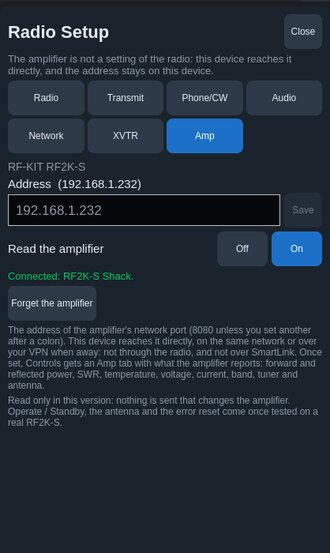
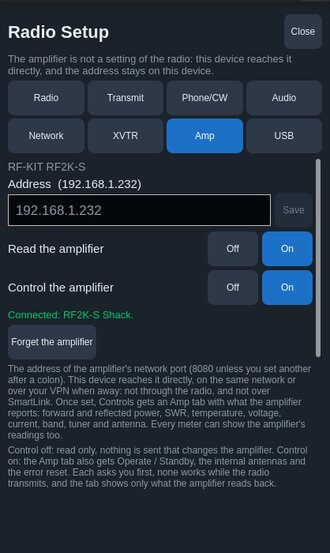
mobile: build 149 / Android beta 62 notes, roadmap, manual, README, privacy and screenshots: amplifier control and keying settings
The manual: Controls › Amp's control rows, the confirmations and what a
refusal or a lost answer says, Forward's peak marker and the faster poll;
the meters' Amplifier readings; Radio Setup › Transmit's keying outputs,
TX REQ inputs, PTT mic override, Inhibit during TUNE and TX band settings;
Radio Setup › USB (each cable type); Control the amplifier; three
troubleshooting rows. New pictures amp-controls, amp-confirm, meter-amp,
setup-txband, setup-usb; tab-amp, setup-amp and setup (8 tabs, 4 + 4)
again. update-manual-screenshots.sh takes them against the stand-in RF2K-S
(Control on as the user turns it on, the confirmation cancelled, the
meters' choices put back, the USB tab only shown): 0 writes.

README: the amplifier's control and meters, keying from Radio Setup, two
status rows. PRIVACY.md: with control on, the changes confirmed are sent
to the amplifier. The roadmap: build 149 (and what was found: the radio
shows the keying of the station holding Local PTT; usb_cable set answers
without a status; the stand-in tap that reached a real cable, set back),
step 2 of the amplifier plan. TestFlight notes (3970 characters) and
Android beta 62.

Layout sweep against build 148's: 27 sizes, no layout decision changed,
no QML warnings; build 149's is the new baseline.

Claude-Session: https://claude.ai/code/session_01KANojkzU64KoozGDbNDzRK

Changed region(s): [[0.0, 0.2152, 1.0, 0.8915]]

diff --git a/docs/mobile/MANUAL.md b/docs/mobile/MANUAL.md
@@ -667,9 +667,20 @@ An analog meter keeps its size, as a wider face would also grow taller.
 
 ![Meter chooser](manual/meter.jpg)
 
+![The amplifier's readings on the meters while transmitting](manual/meter-amp.jpg)
+
 Receive offers S, Mic, PA temperature and supply voltage; transmit adds
 Power, SWR, ALC and Compression, which the radio reads only while
-transmitting, and leaves S out (it has nothing to read on the air). **Mic** is on the left meter and its lower bar
+transmitting, and leaves S out (it has nothing to read on the air).
+With an amplifier set up ([Radio Setup › Amp](#9-radio-setup)), every
+meter, in receive and in transmit, also offers its readings under
+**Amplifier**: *Power* (0-1600 W), *Refl* (0-200 W, red from 2:1 at the
+present power), *SWR* (red from 2:1, – below 1 W), *Temp* (0-100 °C, red
+from 70: the RF2K-S goes to standby at 72 °C), *Volts* (40-60 V) and
+*Current* (0-60 A). The meter names them *Amp Power*, *Amp Temp*… where
+there is room and *Amp* where not (the value's unit and the scale tell
+which). Forget the amplifier, and a meter showing one of them goes back
+to its usual reading. **Mic** is on the left meter and its lower bar
 (on a tablet the side panel covers the right one). With this device's microphone it shows the
 level of the audio as it is sent (after the processing in Controls → eSSB):
 while you transmit, and in receive too while Controls → TX or eSSB is open,
@@ -1417,29 +1428,62 @@ of seven.
   The text also runs along the top of the waterfall, where a tap opens the
   receive settings over the display.
 
-- **Amp** — an RF-KIT **RF2K-S** amplifier, read over its own network
+- **Amp** — an RF-KIT **RF2K-S** amplifier, over its own network
   interface (its REST API), once its address is set in
-  [Radio Setup › Amp](#9-radio-setup). **Read only in this version**: the
-  tab shows what the amplifier reports and sends nothing that changes it.
+  [Radio Setup › Amp](#9-radio-setup). The tab shows what the amplifier
+  reports; with **Control the amplifier** on (Radio Setup › Amp, off until
+  you turn it on) it also switches Operate / Standby and the antenna and
+  resets an error, each after asking you.
 
   ![Amp tab](manual/tab-amp.jpg)
 
   At the top the amplifier's name and its state, **OPERATE** (red) or
-  **STANDBY**, as the amplifier reports it (shown, not a button), and the
-  link: *Read from 192.168.1.60:8080, every half second*, *Connecting…*,
-  or *not reached* with the reason (the app keeps trying every 5 s). Then
-  **Forward** (0-1600 W) and **Reflected** (0-200 W) power and **SWR**
-  (red from 2:1; held at – in receive), on the amplifier's own scales; the
-  PA's **Temperature**, **Voltage** and **Current**; the **Band** and
-  **Frequency** the amplifier is on; the active **Antenna** (1-4, EXT for
-  the external one); the **Tuner** (mode and network); the **Interface**
-  the amplifier follows the radio with (UNIV, CAT, UDP or TCI); its
-  **Status** text and **Firmware**. An error the amplifier reports shows in
-  red under them. A reading not received yet shows as –, never 0.
+  **STANDBY**, as the amplifier reports it, and the link: *Read from
+  192.168.1.60:8080, every half second*, *Connecting…*, or *not reached*
+  with the reason (the app keeps trying every 5 s). Then **Forward**
+  (0-1600 W) and **Reflected** (0-200 W) power and **SWR** (red from 2:1;
+  held at – in receive), on the amplifier's own scales. Forward has an
+  amber peak marker: the highest reading of the last 3 seconds, falling
+  back slowly, as on the desktop's amplifier panel, so the peaks of speech
+  or CW show between readings. Then the PA's **Temperature**, **Voltage**
+  and **Current**; the **Band** and **Frequency** the amplifier is on; the
+  active **Antenna** (1-4, EXT for the external one); the **Tuner** (mode
+  and network); the **Interface** the amplifier follows the radio with
+  (UNIV, CAT, UDP or TCI); its **Status** text and **Firmware**. An error
+  the amplifier reports shows in red under them. A reading not received
+  yet shows as –, never 0.
 
   The amplifier is read while the app is on screen and connected to a
-  radio, and stops in the background. Operate / Standby, the antenna and
-  the error reset will come once tested on a real RF2K-S.
+  radio: twice a second in receive, four times a second while the radio
+  transmits, so the power follows the keying. It stops in the background.
+
+  **Control** (with Control the amplifier on), under the readings:
+  - **Mode** — *Standby* and *Operate*, the amplifier's present mode dark;
+    tap the other one to switch.
+  - **Antenna** — the internal antennas *1*-*4*, the active one dark; one
+    the amplifier has not set up is dim. *EXT* lights while the
+    amplifier's external antenna is in use: shown, not switched from the
+    app.
+  - *Reset error* — clears the amplifier's error state (it latches to
+    protect the amplifier); deal with the cause first.
+
+  ![The Amp tab's controls](manual/amp-controls.jpg)
+
+  Each asks first, naming the change (*Put the amplifier in OPERATE?*,
+  *Switch the amplifier to antenna 2?*, *Reset the amplifier's error?*),
+  and goes only with the button that names it; *Cancel* or a tap beside
+  the question sends nothing. Before Operate, check that the radio's power
+  suits the amplifier. None of them works while the radio transmits
+  (*Not while transmitting.*: the amplifier's relays must not switch with
+  RF on them), and a question still open closes by itself when the radio
+  keys, the link drops or Control is turned off. One change at a time:
+  *Asking the amplifier…* until it answers. The tab changes only when the
+  amplifier reads the new state back. If it refuses, its reason shows in
+  red (*The amplifier did not take it: Function currently disabled (HTTP
+  409)*); if no answer comes, *No answer from the amplifier: it may or may
+  not have done it*, and the tab shows its state again once it is read.
+
+  ![Asking before a change](manual/amp-confirm.jpg)
 
 ## 9. Radio Setup
 
@@ -1456,7 +1500,33 @@ radio.
   multiFLEX; *Disconnect* ends another station's session after asking, which
   frees its slices), and the model, serial, firmware, region and address.
 - **Transmit** — maximum power, TX delay, transmit timeout (0 = off) and the
-  TUNE signal (single or two tone).
+  TUNE signal (single or two tone). Then what an amplifier, a sequencer or
+  a preamp needs, as in SmartSDR's Radio Setup (so no other program is
+  needed), kept in the radio's TX profile (its name is shown):
+  - **Keying outputs: delay after PTT** — *RCA TX1*, *RCA TX2*, *RCA TX3*
+    and *ACC TX* (the accessory connector's TX): how long after PTT each
+    output closes, in ms. The radio's signal waits for **TX delay**, so set
+    the amplifier's output early enough for its relays (about 20 ms): for
+    example TX1 20 ms and TX delay 30 ms.
+  - **TX REQ inputs** — *RCA TX REQ* and *ACC TX REQ*: a footswitch or
+    sequencer there keys the radio on the bands where the input is on.
+    *Active low* (a contact to ground transmits) is the usual; *Active high*
+    asks first, as an open input then keys the radio. **PTT mic override**
+    (a radio with SmartSDR 4.3 or later): on, a hardware PTT (the RCA PTT,
+    ACC or the mic jack) sends the analog mic whatever the TX source.
+  - **Inhibit during TUNE (this device)** — *RCA TX1*, *TX2*, *TX3*, *ACC
+    TX*: the outputs held open while TUNE or the ATU transmits, so tuning
+    at low power does not key the amplifier; they close again after. This
+    device's setting (as the desktop's), not the radio's.
+  - **TX band settings** — pick a band (the one the radio is on is
+    picked first), then for that band: **RF power** and **Tune power** (%),
+    which outputs close there (**RCA TX1 / TX2 / TX3**, **ACC TX**: e.g.
+    the amplifier's PTT only on the bands it covers), the **TX REQ inputs**
+    that work there, **PTT inhibit** (no transmitting on that band) and
+    **Hardware ALC** (the amplifier's ALC at the ALC jack). Turning a TX
+    REQ input on while it is set active high asks first.
+
+  ![Radio Setup › Transmit: the TX band settings](manual/setup-txband.jpg)
 - **Phone/CW** — microphone bias and boost (the radio's own microphone
   inputs; this device's microphone gain is the TX tab's Mic level); the CW
   keyer's break-in delay,
@@ -1474,15 +1544,45 @@ radio.
   radio allows) and *Receive only*; *Remove* deletes it. The radio says when
   a transverter is valid.
 - **Amp** — not a setting of the radio: the amplifier this device reads
-  for the [Amp tab](#8-controls), kept on this device. **RF-KIT RF2K-S**:
-  its **Address** (the IP address or host name of the amplifier's network
-  port, `:port` after it when not 8080) with *Save*; **Read the amplifier**
-  on or off; the link's state; *Forget the amplifier* removes it and the
-  Amp tab. This device reaches the amplifier directly: on the same network,
-  or over your VPN when away — not through the radio, and not over
-  SmartLink. Read only in this version.
+  for the [Amp tab](#8-controls) and the meters, kept on this device.
+  **RF-KIT RF2K-S**: its **Address** (the IP address or host name of the
+  amplifier's network port, `:port` after it when not 8080) with *Save*;
+  **Read the amplifier** on or off; **Control the amplifier** on or off
+  (off until you turn it on: then nothing that changes the amplifier is
+  ever sent; on: the Amp tab's Mode, Antenna and Reset error, each asking
+  first); the link's state; *Forget the amplifier* removes it, the Amp tab
+  and Control (a new address starts read only). This device reaches the
+  amplifier directly: on the same network, or over your VPN when away —
+  not through the radio, and not over SmartLink.
 
   ![Radio Setup › Amp](manual/setup-amp.jpg)
+- **USB** — USB-serial (FTDI) cables in the radio's USB ports, as
+  SmartSDR's *USB Cables*: they give an amplifier, a tuner or an antenna
+  switch the frequency or the band without a computer. A cable shows once
+  plugged into the radio (one it remembers but is unplugged says so;
+  *Forget this cable* drops its settings after asking). For each: its
+  **Name**, **Enabled**, and its **Type**:
+  - **CAT** — the frequency as CAT text (e.g. to an ACOM or SPE amplifier):
+    **Frequency from** (none, the TX pan, the TX slice, the active slice,
+    a transmit or receive antenna, or a slice by letter), **auto report**
+    (sent as it changes, not only when asked), and the serial port:
+    speed, data bits, parity, stop bits, flow control, as the amplifier
+    wants them.
+  - **BCD** — the band as BCD lines (HF, VHF or both), active high or low,
+    for an amplifier's or antenna switch's band input.
+  - **Bit** — eight lines (*Bit 0-7*), each on for a band or a frequency
+    range, active high or low, from a source as above, and if wanted only
+    while transmitting, with a PTT delay and a TX delay (ms): e.g. an
+    antenna relay per band.
+  - **LDPA** — a FlexRadio 2 m / 4 m LDPA amplifier: its band and preamp.
+  - **Pass** (passthrough) — a serial port through the radio, with its
+    port settings.
+
+  The radio keeps these settings; it answers each change with an OK
+  rather than a status, so the page shows a change once the radio has
+  taken it.
+
+  ![Radio Setup › USB](manual/setup-usb.jpg)
 
 **A new radio.** When the app connects to a radio that has no callsign yet —
 a new or reset radio — it offers *Set up* once, a few seconds after
@@ -1516,6 +1616,9 @@ Notices and refusals pop up in the middle of the display; tap one, or wait
 | *The 3D view was too slow …* / *The app stopped while the 3D view was on …* | The app went back to the 2D waterfall | View → 3D to try again |
 | Amp: *not reached: Connection refused* or *timed out* | Nothing answers at the amplifier's address and port from this device | Check the address (Radio Setup › Amp) and the port (8080 unless changed on the amplifier); away from home the VPN must be up; on an iPhone, iPad or Mac allow Local Network for OksaSDR |
 | Amp: *Not an RF-KIT amplifier* | Something else answered at that address (a router, another web page) | Check the amplifier's address and port |
+| Amp: *The amplifier did not take it: … (HTTP 409)* | The amplifier refused the change: the function is disabled on it, or it does not allow an antenna change now | Check the amplifier's own display and settings; the tab keeps showing its real state |
+| Amp: *No answer from the amplifier* or *The link was lost before the amplifier answered* | The link dropped while the change was on its way | Look at the amplifier's display: it may or may not have done it; the tab shows its state again once it is read |
+| Amp: Mode, Antenna and Reset error are dim | The radio is transmitting, a change waits for its answer, or the link is down; with no Mode or Antenna rows at all, Control is off | Wait for receive or the answer; check the link line at the top; Radio Setup › Amp › Control the amplifier |
 
 ## 11. Keyboard and Apple Pencil
 

diff --git a/mobile/ROADMAP.md b/mobile/ROADMAP.md
@@ -5,6 +5,8 @@ queued, waiting on someone, or still to verify follows.
 
 ## Next build
 
+Build 149 / beta 62 (the user, 2026-11-03, after Sebastian Schu DG5CST's test of build 148 on his RF2K-S: "The readings are all fine!"; all three of his and the user's points, to every tester in the same build): step 2 of the amplifier plan (below), Operate / Standby, the internal antenna and the error reset from the Amp tab behind Radio Setup › Amp › Control the amplifier (off by default), each confirmed, refused while the radio transmits, one at a time, shown only from the amplifier's readback; a 3-second peak marker on Forward, as the desktop's amplifier panel, with the amplifier read every 250 ms while the radio transmits (500 ms otherwise; Sebastian: "a peakhold would come handy due to the slow poll rate"); the amplifier's power, reflected power, SWR, temperature, voltage and current on every meter, receive and transmit (Sebastian asked for the output in the small right meter; the user: every meter). Tested against mobile/tools/rf2k-mock.py by the real taps: Control off sends nothing; Cancel and a tap beside the question send nothing; Operate, antenna 2, the reset (clearing the stand-in's error) and Standby each one write; a disabled antenna none; a refusal (409) shows the amplifier's reason; a slow amplifier shows Asking the amplifier… and holds the next change; the amplifier gone at the command shows No answer, then the lost link; keyed on the FLEX (5 W, USB, no audio, so no RF) the open question closed and nothing went, the poll at 4 a second, back to 2 after. RfkitConnection reports each command's outcome (commandFinished: accepted, refused with the reason, or unanswered), with tests. To verify: Sebastian on his RF2K-S (Operate / Standby, his antennas, a reset with the cause cleared). And, the user asking while it was built ("onko meillä ... PTT output valinta ja timings sekä tx band settings"; and: the user has no other program, so the radio's basic settings must be settable from OksaSDR): Radio Setup › Transmit got what keying an amplifier needs, after SmartSDR's Radio Setup and the desktop's Transmit tab / TX Band Settings: each output's delay after PTT (RCA TX1-3, ACC TX), the TX REQ inputs' polarity (active high asks first), and the TX band settings per band (RF and tune power, TX1-3 / ACC TX outputs, RCA / ACC TX REQ, PTT inhibit, HW ALC; turning a TX REQ on while active high asks first). The echo audit (--echo-audit-only) wrote each from the engine and read it back on the FLEX (19 settings, 0 without an echo, 0 not restored), and the page's own controls were checked there too. Found while testing: the FLEX shows the TX profile (and its keying) of the station holding Local PTT; the render client's Default profile has none, so a test transmitting from it leaves the radio showing 0 ms and no TX1 until the user's own station transmits again. Then the user: the COM port settings for the amplifier's frequency data (SmartSDR's and the desktop's USB Cables; the user had an ACOM 2000A and an RF2K-S on them) and everything else an amplifier needs: Radio Setup got a USB tab (the engine's UsbCableModel, FlexLib's commands: CAT with source and serial port, BCD, Bit's eight lines, LDPA, passthrough; forget an unplugged cable), Transmit got Inhibit during TUNE (the engine already applied the desktop's TuneInhibit* settings on TUNE / ATU; the page sets them) and PTT mic override. Found on the radio: it answers usb_cable set with R|0 and no status (the new value shows on the next connect), so the app applies a setting to the model on the radio's OK. A test tap reached the user's real "Acom 2000a" CAT cable (source tx_slice → tx_ant) while stand-in cables were meant; set back at once from the page and checked on a fresh connect; the tests since use stand-ins named to sort after it and log every command's cable. Not done: the 4O3A PGXL / TGXL over the network (need a tester); an audit of the rest of SmartSDR's Radio Setup (RX, filters, GPS, network) against the app's.
+
 Build 148 / beta 61 (the user, 2026-11-02: "tehdään nuo molemmat", the render script fixes and the amplifier's read-only step): the RF-KIT RF2K-S read only (step 1 of the amplifier plan, below): Radio Setup › Amp and the Controls Amp tab, upstream's RfkitConnection in a read-only mode, tested against the stand-in mobile/tools/rf2k-mock.py with every failure (refused, not an RF-KIT, timed out, link lost) and the switch, background and forget paths, never a PUT or POST. To verify: Sebastian Schu DG5CST on his RF2K-S. The render tool: --only NAME,... renders just the pictures named (a minute or two instead of 15-18), update-docs.sh --sweep runs the layout sweep first and once, and the manual's RADE and FT8 runs give the TX slice back (--screenshot quit before the tests' restore; FT8's tuning moved TX too), checked on the FLEX.
 
 Build 147 / beta 60 (the user, 2026-11-02: "Ota 1-3 ja digi välilehden vaihe 2"): PSK31 / PSK63, step 2 of the Digi tab (below), and three things from the user's build 146 tests on the iPad: a macro's Default shows the original in the editor (it closed it, so what came back could not be seen); ⌘1-⌘9, ⌘0 as F1-F10 (the Magic Keyboard has no F-keys; Ctrl on Android; Qt hands ⌘ on as ControlModifier); RTTY's bit clock sampling mid-bit (each edge pulled it toward the bit edges: -3 dB errors 1.3-4.0 % to 0.1-0.6 %, -6 dB 14.8-21.7 % to 8.1-12.6 %, tests/rtty_decoder_weak_signal_test). PSK: PskVaricode / PskEncoder / PskDecoder in the core (tests/psk_roundtrip_test: clean both speeds 6 / 12 / 20 Hz off, PSK31 -10 dB 1.9 %, -12 dB ~17 %, PSK63 -8 dB 1.4 %, a station 100 Hz away left alone, noise alone through the squelch none, AFC holding after the signal); the Digi tab's Mode row, a tap setting the carrier at the signal's centre, AFC, a green band on the display, PSK spots, the macros and field sending on the frequency received, Log as ADIF PSK / PSK31 or PSK63. Live: LZ1AEY's PSK31 CQ decoded on 14.07109 (2026-11-02 ~17:05 local); a QSO attempt found him gone, and the next run met the cabin's power cut (one phase out, the radio and its router unreachable ~17:15-17:50). Then the first PSK31 QSO: our CQ on 14.0705 at 25 W answered by F6FPU (Eric, Roussillon nr Lyon, JN25JI), reports and names exchanged through the tab's macros and field (his report IMD -16 dB, quality 98 % on his over), his 73; the run's over wait missed his final SK (decoded "va"), so the QSO went in by the Log path with its start time (logqso: PSK / PSK31 14.070500, 25 W, name and QTH from QRZ.com, sent to Wavelog). No PSK Reporter reports of the CQ (few receivers report PSK31). Not tested live: the RTTY clock fix (no RTTY on 20 m in the evening); the Digi tab's Log QSO time, which was the moment Log was pressed, now the time the call was picked. Also in 147: Pentti Pärnänen OH6PP's Mac typing (build 146 log: "first responder: none", the app's window not key, so UIKit gave the keys to no one and macOS beeped; typing worked after a text box opened and closed): when a text field takes focus on a Mac with no key routing, the app activates its window as Qt does (key window, its view the first responder), and logs the routing before and after. Not testable here (no Mac): to verify on Pentti's MacBook. Layout sweep against build 146's: 27 sizes, no layout decision changed, no QML warnings (a first run straight after the screenshots, the RADE shot having moved TX to slice C, showed the TX tag's 27 px; run again with TX on A, clean); build 147's is the new baseline. Screenshots refreshed, the manual's PSK31 picture (mode-psk) new; the Digi tab in PSK checked at 360 px and on the iPad. Later for PSK: reporting PSK31 decodes to PSK Reporter, as fldigi does.
@@ -688,8 +690,22 @@ Dennis Daniel for the FlexRadio amplifier and tuner):
   mobile/tools/rf2k-mock.py (the API's documents, keying cycles; counts
   any PUT / POST): readings live, refused, not an RF-KIT, timed out, link
   lost, off and back, background and back, forgotten; 0 writes in every
-  run. Next: Sebastian on his RF2K-S (port 8081), then step 2 (Operate /
-  Standby, antenna, error reset; the gate below).
+  run. Sebastian checked it on his RF2K-S (2026-11-03, port 8081, 615 W
+  at 8 W drive, SWR 1.06): "The readings are all fine!"
+- **Step 2, control (build 149 / beta 62):** Radio Setup › Amp › **Control
+  the amplifier** (off by default; Forget turns it off; with it off the
+  connection stays read-only). The Amp tab: **Mode** Standby / Operate,
+  **Antenna** 1-4 (the ones the amplifier lists as set up; EXT shown, not
+  switched, as upstream), **Reset error**. Each a confirmation naming the
+  change (the action button names it too), closed by itself when the
+  radio keys, the link drops or Control goes off; refused while the radio
+  transmits (no relay switching under RF); one at a time (Asking the
+  amplifier…); never latched, the tab shows the readback; a refusal shows
+  the amplifier's reason, a lost answer says the state is unknown until
+  read. Forward gets the desktop's 3-second peak marker; the poll is
+  250 ms while transmitting. The meters offer the amplifier's six
+  readings. Next: Sebastian's check of the controls; then the 4O3A Power
+  Genius XL / Tuner Genius XL (Dennis Daniel) when someone can test.
 - Controls gets an **Amp** tab (the twelfth button went to Digi in build
   140; the Amp tab is the 13th and shows only when set up): the operating
   side, the state, Operate / Standby, Tune, the meters. Radio Setup's tab
@@ -726,7 +742,9 @@ Dennis Daniel for the FlexRadio amplifier and tuner):
      device's reply, the error handling), and mock tests with the failures
      too (link lost, a wrong reply, a slow device).
   3. Off by default, and first only in a preview build for the tester with
-     the device; to everyone only after the tester's check.
+     the device; to everyone only after the tester's check. (The RF2K-S
+     control went to every tester at once, off by default, by the user's
+     choice on 2026-11-03 after Sebastian's read-only check.)
   4. Every state change (Operate, antenna, error reset, tune) behind a
      confirmation, never one stray tap.
 

diff --git a/mobile/android/RELEASE_NOTES.md b/mobile/android/RELEASE_NOTES.md
@@ -1,7 +1,14 @@
-**OksaSDR for Android — beta 61.** A FlexRadio client for Android phones and tablets, built on the [AetherSDR](https://github.com/aethersdr/AetherSDR) engine: the same app as on the iPhone and iPad (TestFlight), from the same code.
+**OksaSDR for Android — beta 62.** A FlexRadio client for Android phones and tablets, built on the [AetherSDR](https://github.com/aethersdr/AetherSDR) engine: the same app as on the iPhone and iPad (TestFlight), from the same code.
 
-### New in beta 61
-- **Amplifier, read only (first step): an RF-KIT RF2K-S** over its own network port (its REST API; thanks Sebastian DG5CST). Enter its address in Radio Setup › **Amp** (the IP address or host name, `:port` after it when not 8080), and Controls gets an **Amp** tab with what the amplifier reports, twice a second: **OPERATE** / **STANDBY**, forward and reflected power and SWR on the amplifier's own scales, the PA's temperature, voltage and current, band and frequency, tuner, antenna, interface, status and an error if it reports one. The phone reaches the amplifier directly, on the same network or over your VPN (not through the radio, not over SmartLink), only while the app is on screen and connected to a radio. Nothing is sent that changes the amplifier: Operate / Standby, the antenna and the error reset come after a test on a real RF2K-S. Tested against a stand-in of the API: readings, a lost link, a wrong device at the address, a slow answer, the switch off, the app in the background; not one command sent.
+### New in beta 62
+- **Control of the RF-KIT RF2K-S** (step 2; thanks Sebastian DG5CST, whose amplifier showed beta 61's readings right): turn on Radio Setup › Amp › **Control the amplifier** (off until you do; Forget turns it off again), and the Amp tab gets **Mode** (Standby / Operate, the present one dark), **Antenna** (the internal antennas 1-4 the amplifier has set up; EXT lights when its external antenna is in use, shown, not switched) and **Reset error**. Each asks first, naming the change, and goes only with the button that names it; nothing goes while the radio transmits (an open question closes by itself when the radio keys, the link drops or Control goes off); one change at a time; the tab changes only when the amplifier reads the new state back, a refusal shows the amplifier's reason, and a lost answer says the state is unknown until it is read again. Tested against a stand-in of the API by the real buttons, and keyed on a FLEX for the transmit lockout.
+- **A peak marker on the amplifier's Forward bar**: the highest reading of the last 3 seconds, as the desktop's amplifier panel, and the amplifier is read four times a second while the radio transmits (twice otherwise), so the power follows the keying (Sebastian's idea).
+- **Keying an amplifier from Radio Setup › Transmit**, as SmartSDR's Radio Setup has it, so no other program is needed: **Keying outputs: delay after PTT** (RCA TX1, TX2, TX3 and ACC TX, in ms; the radio's signal waits for TX delay, e.g. TX1 20 ms, TX delay 30 ms), the **TX REQ inputs** (RCA and ACC, active low or active high; active high asks first, as an open input then keys the radio), and the **TX band settings**: pick a band, then its RF and tune power, which outputs close there (the amplifier's PTT only on the bands it covers), which TX REQ inputs work there, PTT inhibit and hardware ALC. Kept in the radio's TX profile. Every setting was written from the page and read back on a FLEX-6600M. With them **Inhibit during TUNE** (this device's setting, as the desktop's): the outputs held open while TUNE or the ATU transmits, so tuning does not key the amplifier; and **PTT mic override** on radios with SmartSDR 4.3.
+- **USB cables in Radio Setup › USB**, as SmartSDR's USB Cables: the USB-serial (FTDI) cables in the radio's USB ports that give an amplifier, a tuner or an antenna switch the frequency or the band. Each cable's name, on / off and type: **CAT** (the frequency as CAT text, from the TX slice, the active slice, a pan, an antenna or a slice by letter, auto report, and the port's speed, data bits, parity, stop bits and flow control), **BCD** (the band as BCD lines, HF / VHF / both, active high or low), **Bit** (eight lines, each for a band or a frequency range, active high or low, optionally only while transmitting with PTT and TX delays), **LDPA** (FlexRadio's 2 m / 4 m amplifier) and **passthrough**. A cable the radio remembers but is unplugged can be forgotten. The radio answers a cable setting with an OK, not a status, so the page shows it once taken.
+- **The amplifier's readings on every meter**: tap a meter, and under **Amplifier** pick Power, Refl, SWR, Temp, Volts or Current, for receive and for transmit (Sebastian asked for the output on the small right meter). The temperature turns red from 70 °C (the RF2K-S goes to standby at 72 °C).
+
+### Still new from beta 61
+- **Amplifier, read only (first step): an RF-KIT RF2K-S** over its own network port (its REST API; thanks Sebastian DG5CST). Enter its address in Radio Setup › **Amp** (the IP address or host name, `:port` after it when not 8080), and Controls gets an **Amp** tab with what the amplifier reports, twice a second: **OPERATE** / **STANDBY**, forward and reflected power and SWR on the amplifier's own scales, the PA's temperature, voltage and current, band and frequency, tuner, antenna, interface, status and an error if it reports one. The phone reaches the amplifier directly, on the same network or over your VPN (not through the radio, not over SmartLink), only while the app is on screen and connected to a radio. Beta 61 sent nothing that changes the amplifier (the control is beta 62's, above). Tested against a stand-in of the API: readings, a lost link, a wrong device at the address, a slow answer, the switch off, the app in the background; not one command sent.
 
 ### Still new from beta 60
 - **PSK31 and PSK63 on the Digi tab** (the Mode row: RTTY, PSK31, PSK63), in DIGU as the standard has them: tune the slice about a kilohertz below the signals (14.0695 for 14.070-14.073), tap a signal on the display and the decoder goes to it (a green band marks where it listens, with its audio frequency), **AFC** follows it within 25 Hz, −10 / +10 move it by hand. The same calls heard, macros (F1-F8), **Text to send**, **Stop** and **Log QSO** as for RTTY (ADIF PSK with the submode PSK31 / PSK63, on the signal's frequency); text goes out on the frequency received, as fldigi sends, and PSK keeps lower case. A PSK spot puts the tab in PSK and tunes to the signal. The decoder copies PSK31 down to about -12 dB SNR and leaves a station 100 Hz away alone. Tested on the air: a PSK31 QSO at 25 W with F6FPU near Lyon.

diff --git a/README.md b/README.md
@@ -101,13 +101,24 @@ radio interface, with no computer running alongside.
   there (a green band marks it), AFC follows it, and the same macros, text
   field and Log (ADIF PSK31 / PSK63 on the signal's frequency) work; text
   goes out on the frequency received. A PSK spot tunes to the signal.
-- **Amplifier: RF-KIT RF2K-S, read only** (first step): its address in
-  Radio Setup › Amp, and Controls gets an **Amp** tab with what the
-  amplifier reports over its own network port: Operate / Standby, forward
-  and reflected power, SWR, temperature, voltage, current, band, frequency,
-  tuner, antenna and interface, read twice a second. The phone reaches the
-  amplifier directly (same network or VPN), and nothing is sent that
-  changes it; control comes after a test on a real RF2K-S.
+- **Amplifier: RF-KIT RF2K-S**: its address in Radio Setup › Amp, and
+  Controls gets an **Amp** tab with what the amplifier reports over its
+  own network port: Operate / Standby, forward power with a 3-second peak
+  marker, reflected power, SWR, temperature, voltage, current, band,
+  frequency, tuner, antenna and interface (twice a second, four times
+  while transmitting); every meter can show its readings too. With
+  *Control the amplifier* on (off by default): Operate / Standby, the
+  internal antenna and the error reset, each confirmed first, none while
+  the radio transmits, shown only as the amplifier reads it back. The
+  phone reaches the amplifier directly (same network or VPN).
+- **Keying an amplifier from Radio Setup**, as in SmartSDR, so no other
+  program is needed: on Transmit each keying output's delay after PTT
+  (RCA TX1-TX3, ACC TX), the TX REQ inputs' polarity, the TX band
+  settings (per band: RF and tune power, which outputs and TX REQ inputs
+  work there, PTT inhibit, hardware ALC) and the outputs held open during
+  TUNE; on USB the radio's USB-serial cables (CAT, BCD, Bit, LDPA,
+  passthrough) that give an amplifier or antenna switch the frequency or
+  band.
 - **Notch filters (TNF)**: press and hold on the display (or *+ TNF*) for
   a new notch, set its width, depth and permanent and *Add* it, so a stray
   hold adds none; tap one for its settings or remove; drawn through
@@ -260,7 +271,9 @@ radio interface, with no computer running alongside.
 - Network quality in the top row (as the desktop's indicator), with
   link timing, packet loss per stream and traffic on tap.
 - **Radio Setup** (top row): callsign, radio name, remote, transmit limits
-  and timing, microphone, CW keyer and the radio's audio outputs; offered
+  and timing, keying an amplifier (output delays, TX REQ, TX band
+  settings), USB cables, microphone, CW keyer and the radio's audio
+  outputs; offered
   once when a radio has no callsign yet (a new radio).
 - App version and build in the top row; **Manual** opens the
   [user manual](docs/mobile/MANUAL.md).
@@ -311,6 +324,8 @@ landscape and Android pictures are taken from the devices.</sub>
 | FreeDV Reporter (qso.freedv.org) | ✅ The app's RADE listed on qso.freedv.org (build 112) |
 | PSK Reporter, Wavelog / Cloudlog | ✅ Spots on pskreporter.info; QSOs sent to a Wavelog logbook; Wavelog read back for worked before (tested with a 19 000-QSO logbook); QRZ.com Logbook both ways and a shared ADIF file (to test with real accounts and cloud folders) |
 | Transverters (XVTR) in Radio Setup | 🧪 Built in; reports with a transverter welcome |
+| Amplifier keying in Radio Setup › Transmit (output delays, TX REQ, TX band settings) | ✅ Every setting written from the page and read back on the FLEX-6600M (build 149); reports from stations with an amplifier welcome |
+| USB cables in Radio Setup › USB (CAT, BCD, Bit, LDPA, passthrough) | 🧪 A real CAT cable's settings shown and one changed and set back on the FLEX (build 149); the other types tried with stand-in cables; reports with a cable plugged in welcome |
 | Mac (Apple silicon), the iPad app from TestFlight | ✅ In use by testers; typing straight into the fields (the text box on press and hold since build 140, Backspace since 142) |
 | Log tab, ADIF export and import, QRZ.com lookup | ✅ In use by testers |
 | Several slices and panadapters, multiFLEX | ✅ Supported |
@@ -321,7 +336,7 @@ landscape and Android pictures are taken from the devices.</sub>
 | CW straight key and paddles on air | ✅ Checked on the FLEX at 10 W: straight key, paddles (elements on time at 30 WPM), iambic A and B squeeze |
 | Transmit lock (SB / OA) | ✅ Checked on the FLEX without transmitting (build 141) |
 | RTTY decoding and sending | ✅ Contest stations decoded live (build 141); DIGL / DIGU decoded live (IT9EJW, SV1EKI); sent at 10 W and decoded by RBN skimmers across Europe (OE9GHV 33 dB, GM0UDL 27 dB) |
-| RF-KIT RF2K-S amplifier (read only) | 🧪 Tested against a stand-in of its REST API (the API upstream tested on an RF2K-S): readings, a lost link, a wrong device, no PUT or POST ever sent; to verify on a real RF2K-S |
+| RF-KIT RF2K-S amplifier | ✅ Readings checked on a real RF2K-S (Sebastian Schu DG5CST, build 148). 🧪 Control (Operate / Standby, antenna, error reset) tested against a stand-in of its REST API: confirmations, a refusal (409), no answer, a lost link, never while transmitting (checked keyed on the FLEX); to verify on a real RF2K-S |
 | PSK31 / PSK63 | ✅ PSK31 decoded live (LZ1AEY's CQ on 14.071) and a PSK31 QSO at 25 W with F6FPU near Lyon, answering our first CQ (2026-11-02); the decoder tested to -12 dB SNR, AFC and a neighbour 100 Hz away |
 | CW decoder | ✅ Decodes a strong signal cleanly and weak stations' calls (8–45 WPM, Sens filter against noise) |
 | LAN discovery on iOS | ⏳ Needs Apple's multicast entitlement. Connect by IP for now. |

diff --git a/mobile/PRIVACY.md b/mobile/PRIVACY.md
@@ -78,8 +78,9 @@ these services:
 - **An amplifier** (RF-KIT RF2K-S), only if you enter its address in Radio
   Setup › Amp: while the app is on screen and connected to a radio it reads
   the amplifier's state and meters from that address (your own device, on
-  your network or through your VPN). Nothing is sent to it but those
-  requests to read.
+  your network or through your VPN). With Control the amplifier on, it also
+  sends the changes you confirm there (Operate / Standby, the antenna, an
+  error reset); nothing else is sent to it.
 - **Developer link** (Log tab), off unless turned on: for the developer's
   own devices; it sends the app's log, and screenshots when asked, to the
   address set there.
